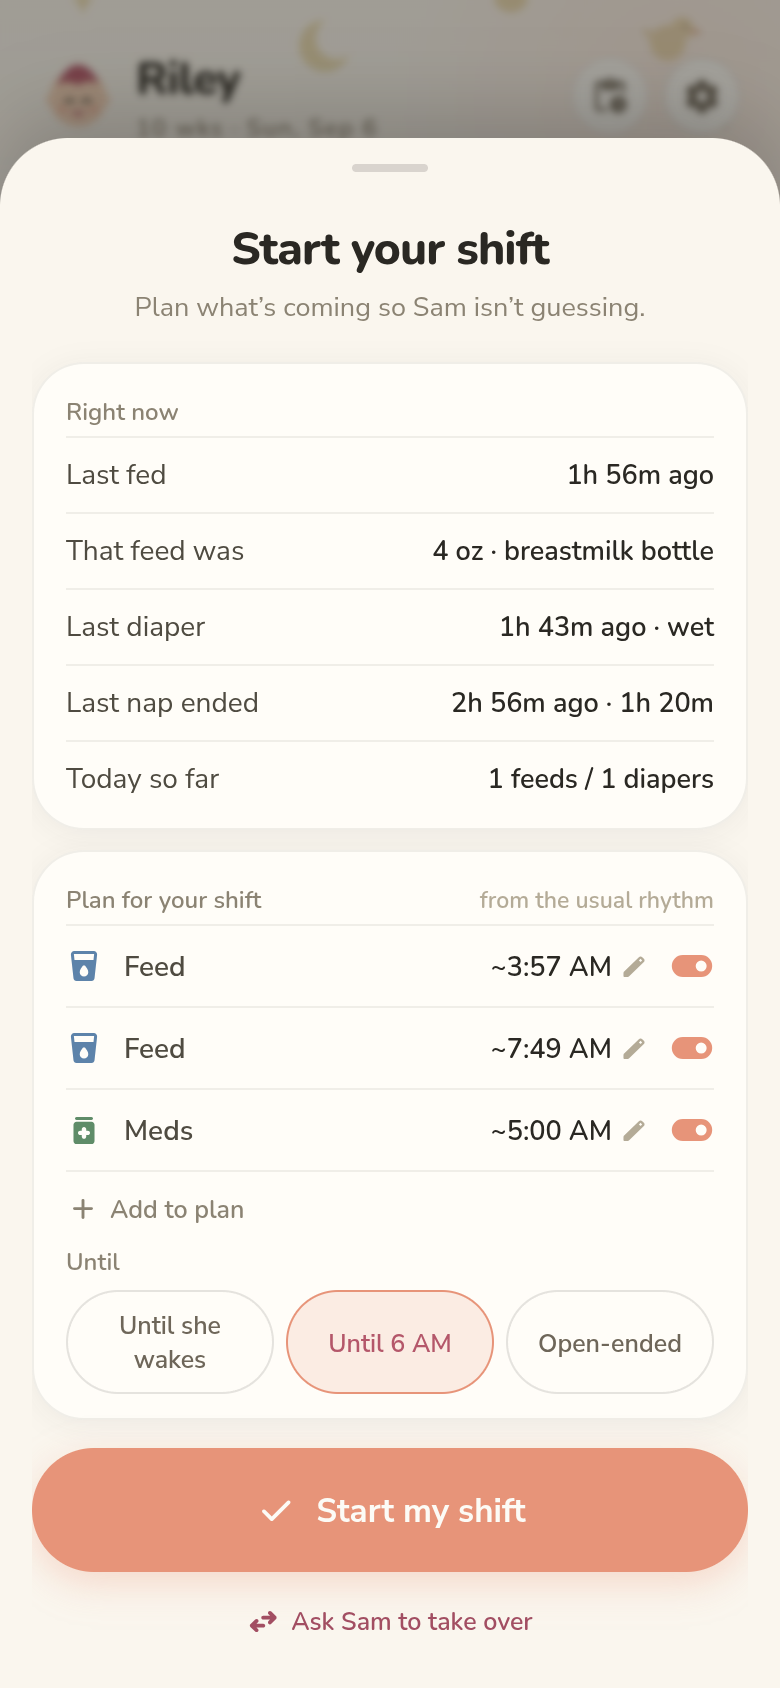
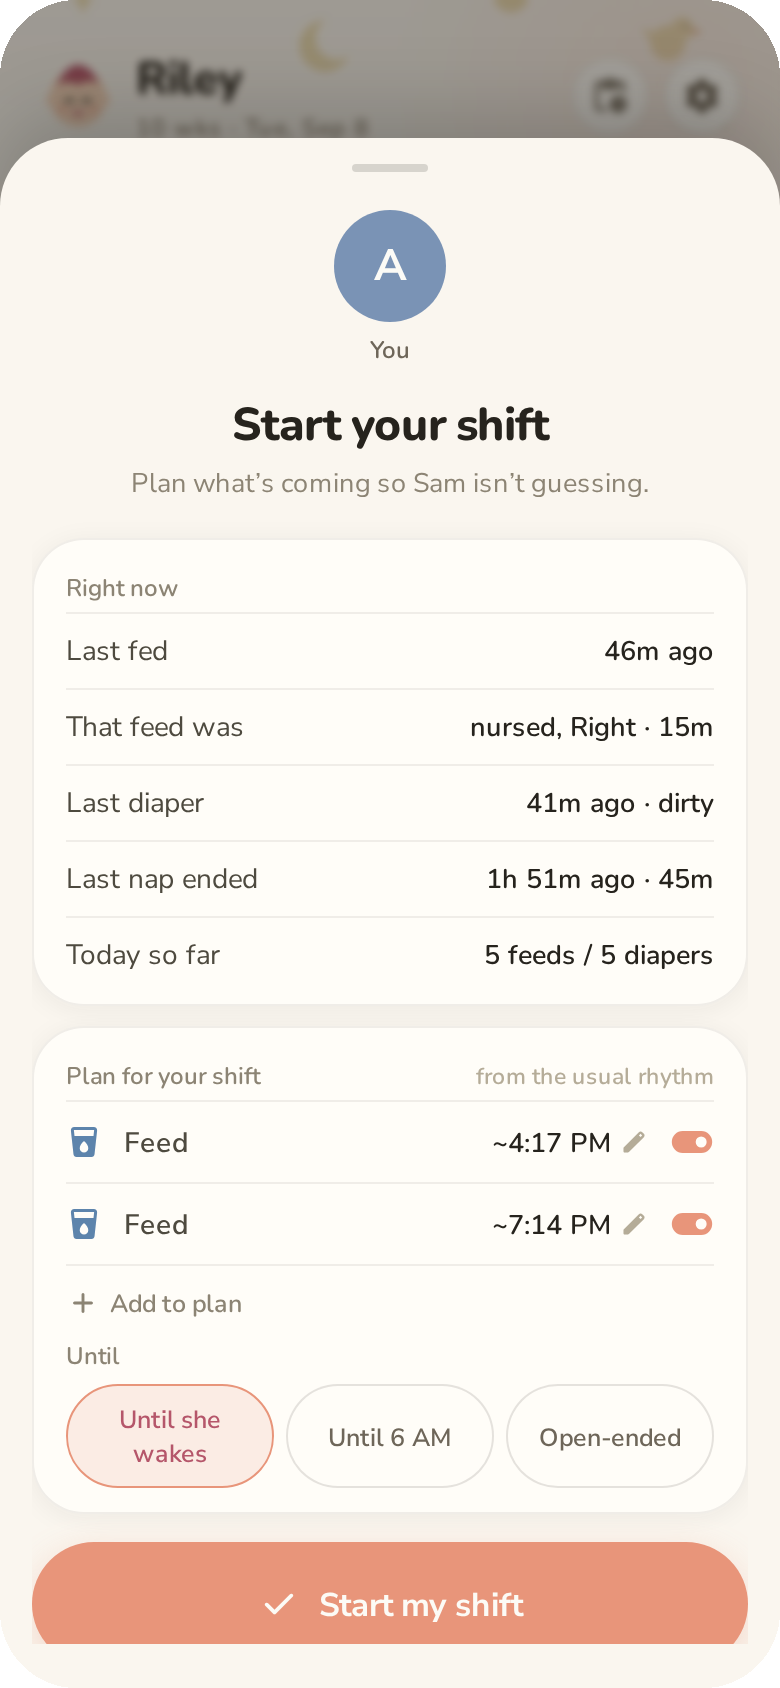
docs: the README shows the app the site shows
The marketing site reshot the app for v1.0.2 against a full demo log;
the README was still on shots from a household with one feed and three
hours of sleep in a week, and Now was caught with no timer running — so
nothing in the picture showed the live-timer flip the copy promises.

Takes the site's Now, History and shift-start shots, and adds the log
sheet, which the lead bullet describes and no picture showed. The hero
row goes four across to fit it.

The Community Apps listing went live, so the docs table stops calling
its runbook a submission checklist and CLAUDE.md stops calling the
listing outstanding.

diff --git a/README.md b/README.md
@@ -10,9 +10,10 @@
 
 <!-- screenshots:start -->
 <p align="center">
-  <img src="docs/media/now.png" alt="Now screen — since-cards, today's timeline, and the header's shift and settings buttons" width="30%">
-  <img src="docs/media/history.png" alt="History screen — 7-day stats tiles and per-day charts" width="30%">
-  <img src="docs/media/settings.png" alt="Settings screen — baby profile, appearance, and household options" width="30%">
+  <img src="docs/media/now.png" alt="Now screen — a running nursing timer, since-cards (the Fed card flipped to “Feeding now”), today's timeline, and the header's shift and settings buttons" width="23%">
+  <img src="docs/media/log.png" alt="The log sheet — every entry type one tap away, with the timer framing and a “Log a past feed” escape hatch" width="23%">
+  <img src="docs/media/history.png" alt="History screen — 7-day stats tiles and per-day charts" width="23%">
+  <img src="docs/media/settings.png" alt="Settings screen — baby profile, household members and roles, appearance" width="23%">
 </p>
 <!-- screenshots:end -->
 
@@ -23,7 +24,7 @@
 - **Shifts, not just a log.** "I need to sleep, take him" is a first-class flow. The person handing off *authors* the handoff — a plan drafted from the baby's rhythm whose items you can retime, drop, or add to (feed, nursing, pump, sleep, tummy time, bath, meds), an "until" time, a note, and (with three or more adults) a specific person to ask. It lands on the other phone as an actual plan rather than a sentence; they adjust it if they need to, accept, and duty moves. Logged feeds tick the plan off live, the off-duty parent watches progress read-only without asking, a push pings both of you when the "until" passes, and handing back generates a shift summary instead of a "when did you…" conversation. Handing back and asking stay distinct on purpose: handing back returns the cover to whoever asked for it and moves duty on the spot, while asking waits for a yes — so a shift you started yourself can only be *asked* away, never quietly dropped on someone. Unfinished items — a dose that never happened — carry into the next shift's plan rather than evaporating with the handoff. Whoever already has the baby can also just start a shift, no ask required. The whole shift surface — your live checklist, their progress, or a start button when duty is yours and nothing is open — sits one tap behind a header button, so Now stays a log; only an incoming ask interrupts it, because that one needs answering.
 
 <p align="center">
-  <img src="docs/media/duty.png" alt="The shift sheet while on duty with nothing started — the drafted plan and a Start my shift button" width="30%">
+  <img src="docs/media/duty.png" alt="The shift sheet while on duty with nothing started — where things stand right now, the drafted plan, an until time, and a Start my shift button" width="30%">
   <img src="docs/media/handoff.png" alt="Composing a handoff — the plan you're proposing, each item retimeable, plus an until time and a note for your partner" width="30%">
   <img src="docs/media/incoming.png" alt="The same handoff on the other phone — your note, the plan you wrote, and one tap to take over" width="30%">
 </p>
@@ -135,7 +136,7 @@ Releases are tagged: a `v*` tag runs both test suites (the API suite against SQL
 | [docs/mcp.md](docs/mcp.md) | The built-in MCP server: auth, client setup, tool reference |
 | [docs/api.md](docs/api.md) | The internal PWA/sync API — every endpoint with payloads, rules, and error behavior |
 | [docs/operations.md](docs/operations.md) | Runbook for both deployment shapes: install, update, backups, reverse proxy, local dev, troubleshooting |
-| [docs/ca-submission.md](docs/ca-submission.md) | Community Apps submission checklist + support-thread draft |
+| [docs/ca-submission.md](docs/ca-submission.md) | How the Community Apps listing got made, and how template and app updates reach it |
 | [docs/known-limitations.md](docs/known-limitations.md) | Honest gaps + candidate roadmap |
 | [docs/feeding-patterns.md](docs/feeding-patterns.md) | Sourced age-typical feeding/sleep norms behind the app's insights (not medical advice) |
 | [TESTING.md](TESTING.md) | Trial-period journal — the feedback that drives iteration |

diff --git a/CLAUDE.md b/CLAUDE.md
@@ -48,4 +48,4 @@ Two-parent baby-tracking PWA (React) + Laravel API + Reverb websockets, deployed
 
 ## Current phase
 
-Living with the app to collect feedback in [TESTING.md](TESTING.md), then iterating. Backlog seeds: [docs/known-limitations.md](docs/known-limitations.md). Tagged releases, the pinned installer, and the Home Assistant add-on have shipped; the Unraid Community Apps listing is the one marketplace step still outstanding ([docs/ca-submission.md](docs/ca-submission.md)).
+Living with the app to collect feedback in [TESTING.md](TESTING.md), then iterating. Backlog seeds: [docs/known-limitations.md](docs/known-limitations.md). Tagged releases, the pinned installer, the Home Assistant add-on, and the Unraid Community Apps listing have all shipped — [docs/ca-submission.md](docs/ca-submission.md) now covers keeping that listing current rather than getting it accepted.
